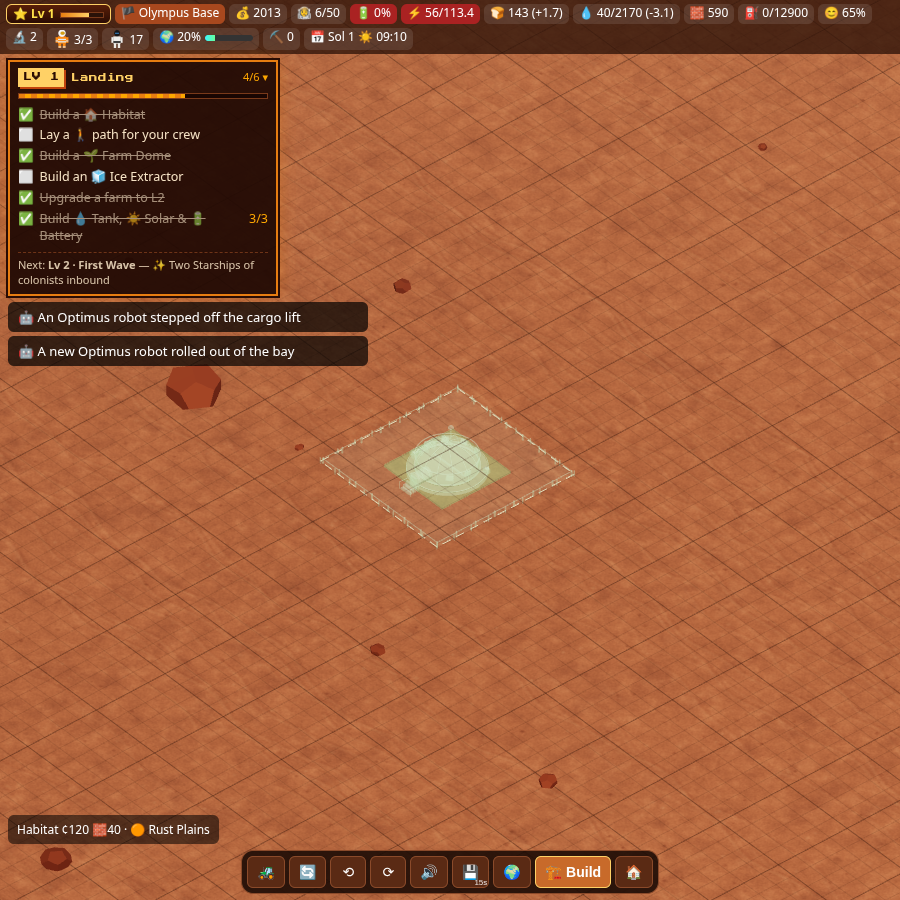
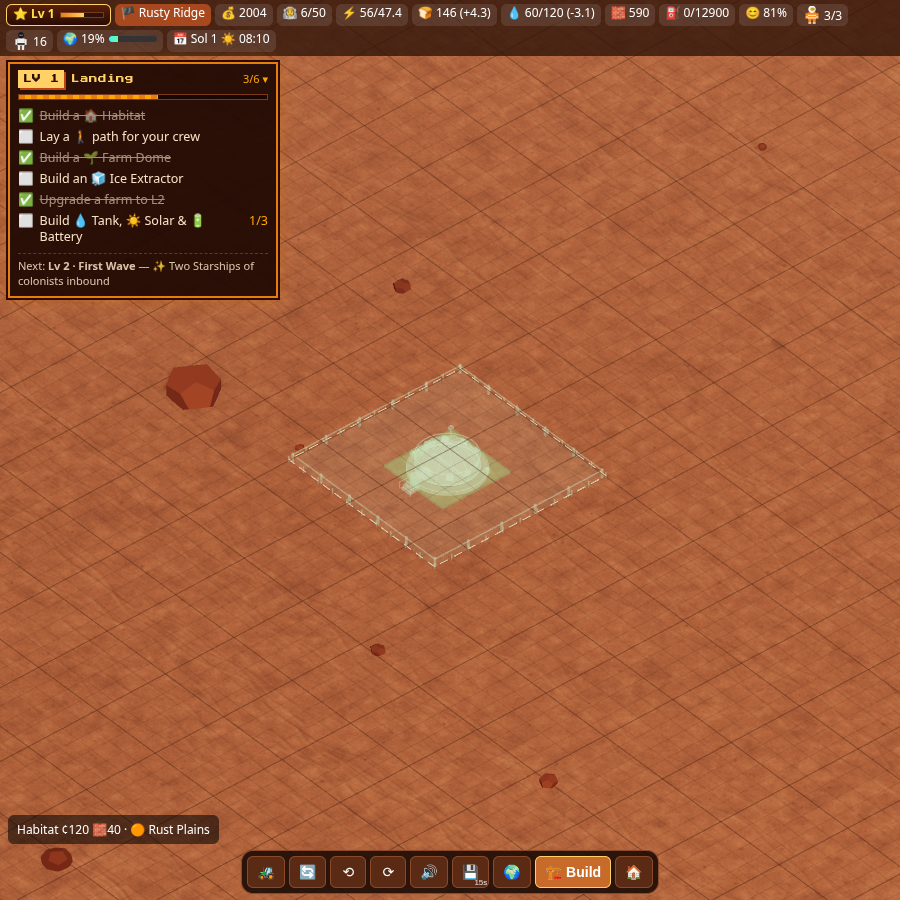
v35c: larger L10 property lots (hab 10, solar 8, farm 12, bay 16, pad 14, tank farm 14), boundary fence from L1

diff --git a/game.js b/game.js
@@ -760,7 +760,7 @@ const GTYPE={solar:'power',battery:'power',reactor:'power',kilo:'power',ice:'wat
  mine:'ind',proc:'ind',fuel:'ind',tfarm:'ind',refin:'ind',factory:'ind',drill:'ind',robot:'ind',garage:'ind',lab:'sci',med:'sci',medc:'sci',school:'sci',sec:'sci',outpost:'sci',pad:'pad',lpad:'pad'};
 // v35: reserved L10 footprint. Every building owns a ring of RVt tiles around its L1 core; the ring is held in rsv[][] so nothing else can be
 // built inside, and the model physically grows into it level by level (hand-designed slot plans per building, landmark at L10).
-const RVt=t=>{const d=B[t];return d&&d.cat==='b'&&t!=='opm'&&t!=='ship'?Math.max(1,Math.round(d.s*.5)):0;};
+const RVX={hab:3,solar:3,farm:4,battery:3,wtank:3,mine:4,proc:4,robot:4,pad:3,tfarm:2,lab:4};const RVt=t=>{const d=B[t];if(!d||d.cat!=='b'||t==='opm'||t==='ship')return 0;return RVX[t]??Math.max(2,Math.round(d.s*.6));};
 const capL=b=>{const R=RVt(b.t),M=B[b.t].maxL||10;if(!R)return M;const r=b.rv??R;return r>=R?M:Math.max(b.lvl,Math.min(M,1+Math.floor(9*r/R)));};
 let _rvF=1;const GHG=new THREE.MeshStandardMaterial({color:0xe4f2ea,transparent:true,opacity:.32,roughness:.08,metalness:.1,depthWrite:false,side:THREE.DoubleSide});
 const GSLOT=[[0,.33],[1,.67],[2,.33],[3,.67],[0,1],[2,0],[0,.67],[3,.33],[1,.33],[2,.67],[0,0],[2,1]],GLV=[2,3,4,5,5,6,6,7,8,8,9,10];
@@ -794,8 +794,8 @@ function gItem(K,k,x,z,u,ax,s0){const w=u*.82,cx=Math.max(0,Math.min(s0,x)),cz=M
  else if(k==='mast'||k==='tower'){const h=k==='tower'?u*2.2:u*1.4;K.cyl(MAT.white,u*.12,u*.2,h,x,h/2,z,12);K.cyl(MAT.white,u*.28,u*.28,u*.18,x,h*.82,z,14);K.cyl(DM.frame,u*.02,u*.02,u*.5,x,h+u*.25,z,6);K.sph(DM.led||MAT.red,u*.05,x,h+u*.5,z);}}
 function growth(g,t,L){const R=RVt(t);if(!R)return;const s0=B[t].s0,u=R*s0/B[t].s*_rvF;if(u<=.001)return;const K=KB();
  const plan=(GPLAN[t]||GPLAN[GTH[GTYPE[t]||'gen']]).split(' '),M=Math.min(10,L);
- for(let i=0;i<12;i++){if(GLV[i]>M)break;const [sd,f]=GSLOT[i],a=-u/2+f*(s0+u),d=u/2;const [x,z]=sd===0?[s0+d,a]:sd===1?[a,s0+d]:sd===2?[-d,a]:[a,-d];gItem(K,plan[i],x,z,u,sd&1,s0);}
- if(M<10){const e=u*.96,lo=-e,hi=s0+e,ph=u*.14;for(const[x0,z0,x1,z1]of[[lo,lo,hi,lo],[hi,lo,hi,hi],[hi,hi,lo,hi],[lo,hi,lo,lo]]){K.box(MAT.yellow,Math.abs(x1-x0)||u*.015,u*.015,Math.abs(z1-z0)||u*.015,(x0+x1)/2,ph,(z0+z1)/2);const n=Math.max(2,Math.round(Math.hypot(x1-x0,z1-z0)/(u*.6)));for(let i=0;i<n;i++)K.box(MAT.orange||MAT.yellow,u*.03,ph*1.2,u*.03,x0+(x1-x0)*i/n,ph*.6,z0+(z1-z0)*i/n);}}
+ for(let i=0;i<12;i++){if(GLV[i]>M)break;const [sd,f]=GSLOT[i],a=-u/2+f*(s0+u),d=u/2;const [x,z]=sd===0?[s0+d,a]:sd===1?[a,s0+d]:sd===2?[-d,a]:[a,-d];gItem(K,plan[i],x,z,Math.min(u,(s0+u)*.35),sd&1,s0);}
+ if(1){const e=u*.96,lo=-e,hi=s0+e,ph=u*.14;for(const[x0,z0,x1,z1]of[[lo,lo,hi,lo],[hi,lo,hi,hi],[hi,hi,lo,hi],[lo,hi,lo,lo]]){K.box(MAT.yellow,Math.abs(x1-x0)||u*.015,u*.015,Math.abs(z1-z0)||u*.015,(x0+x1)/2,ph,(z0+z1)/2);const n=Math.max(2,Math.round(Math.hypot(x1-x0,z1-z0)/(u*.6)));for(let i=0;i<n;i++)K.box(MAT.orange||MAT.yellow,u*.03,ph*1.2,u*.03,x0+(x1-x0)*i/n,ph*.6,z0+(z1-z0)*i/n);}}
  const m=K.done();m.name='growth';g.add(m);}
 
 function model(t,lvl=1){if(t==='ship')return shipModel();const L10=lvl;if(t!=='opm')lvl=Math.min(5,Math.ceil((lvl+1)/2));let g;if(DET[t])g=DET[t](lvl);else if(V2.has(t))g=modelV2(t);else if(NEWM[t])g=NEWM[t](lvl);else g=modelNew(t,lvl);if(B[t].cat==='b'&&t!=='opm')growth(g,t,L10);
@@ -1951,7 +1951,7 @@ Object.assign(window,{__S:()=>S,__cam:cam,__THREE:THREE,__agents:agents,__trucks
 
 ;(()=>{const l=document.getElementById('loading');if(!l)return;const bar=document.getElementById('lbar'),msg=document.getElementById('lmsg');const steps=['GENERATING TERRAIN...','FUELLING STARSHIPS...','WAKING CREW...','READY!'];let i=0;const iv=setInterval(()=>{i++;bar.style.width=(i/steps.length*100)+'%';msg.textContent=steps[Math.min(i,steps.length)-1];if(i>=steps.length){clearInterval(iv);setTimeout(()=>{l.style.opacity=0;setTimeout(()=>l.remove(),600);},250);}},220);})();
 window.__flyers=typeof flyers!=='undefined'?flyers:null;window.__TUT=TUT;window.__tutTick=tutTick;
-Object.defineProperty(window,'__S',{get:()=>S,configurable:true});window.__cam=cam;window.__THREE=THREE;Object.defineProperty(window,"__trucks",{get:()=>trucks});Object.defineProperty(window,"__agents",{get:()=>agents});window.__start=start;window.__addB=addB;window.__capL=capL;window.__openB=b=>openB(b);window.__objs=objs;window.__launch=launchReturn;window.__save=save;window.__setZoom=z=>{zoom=z;camUp();};window.__tgt=tgt;window.__setSel=k=>{sel=k;};
+Object.defineProperty(window,'__S',{get:()=>S,configurable:true});window.__cam=cam;window.__THREE=THREE;Object.defineProperty(window,"__trucks",{get:()=>trucks});Object.defineProperty(window,"__agents",{get:()=>agents});window.__start=start;window.__addB=addB;window.__capL=capL;window.__RVt=RVt;window.__openB=b=>openB(b);window.__objs=objs;window.__launch=launchReturn;window.__save=save;window.__setZoom=z=>{zoom=z;camUp();};window.__tgt=tgt;window.__setSel=k=>{sel=k;};
 window.__build=(k,x,z,r=0)=>{placeRot=r;const n0=S.b.length;sel=k;hover={x,z,bx:x,bz:z,p:new THREE.Vector3(x+.5,0,z+.5)};try{click();}finally{sel=null;hover=null;placeRot=0;updPrev();}return S.b.length>n0;};
 window.__paint=(x0,z0,x1,z1)=>{sel='path';line({x:x0,z:z0},{x:x1,z:z1},(x,z)=>paint(x,z));sel=null;refreshDoors();};window.__upgrade=b=>upgrade(b);
 window.__rot=v=>{rot=rotT=v;camUp();};window.__el=v=>{camEl=v;camUp();};window.__cell=(x,y)=>cell(x,y).p;window.__truckModel=()=>truckModel();window.__syncRovers=()=>syncRovers();window.__astro=i=>astro(i);window.__getCam=()=>({rot:+rot.toFixed(3),el:+camEl.toFixed(3),zoom:+zoom.toFixed(2)});window.__DAY=DAY;window.__rocket=rocket;window.__pose=pose;window.__landPose=landPose;window.__scene=scene;

diff --git a/sw.js b/sw.js
@@ -1,5 +1,5 @@
 // MARS service worker — offline play. Bump VERSION on every release.
-const VERSION='mars-v35b';
+const VERSION='mars-v35c';
 const CORE=['./','index.html','game.js','manifest.webmanifest','icons/icon-180.png','icons/icon-192.png','icons/icon-512.png','icons/maskable-512.png','icons/favicon-32.png'];
 const CDN=['https://unpkg.com/three@0.160.0/build/three.module.js','https://unpkg.com/three@0.160.0/examples/jsm/environments/RoomEnvironment.js','https://unpkg.com/three@0.160.0/examples/jsm/geometries/RoundedBoxGeometry.js'];
 self.addEventListener('install',e=>{e.waitUntil(caches.open(VERSION).then(async c=>{await c.addAll(CORE);await Promise.all(CDN.map(u=>c.add(new Request(u,{mode:'cors'})).catch(()=>{})));}));});
